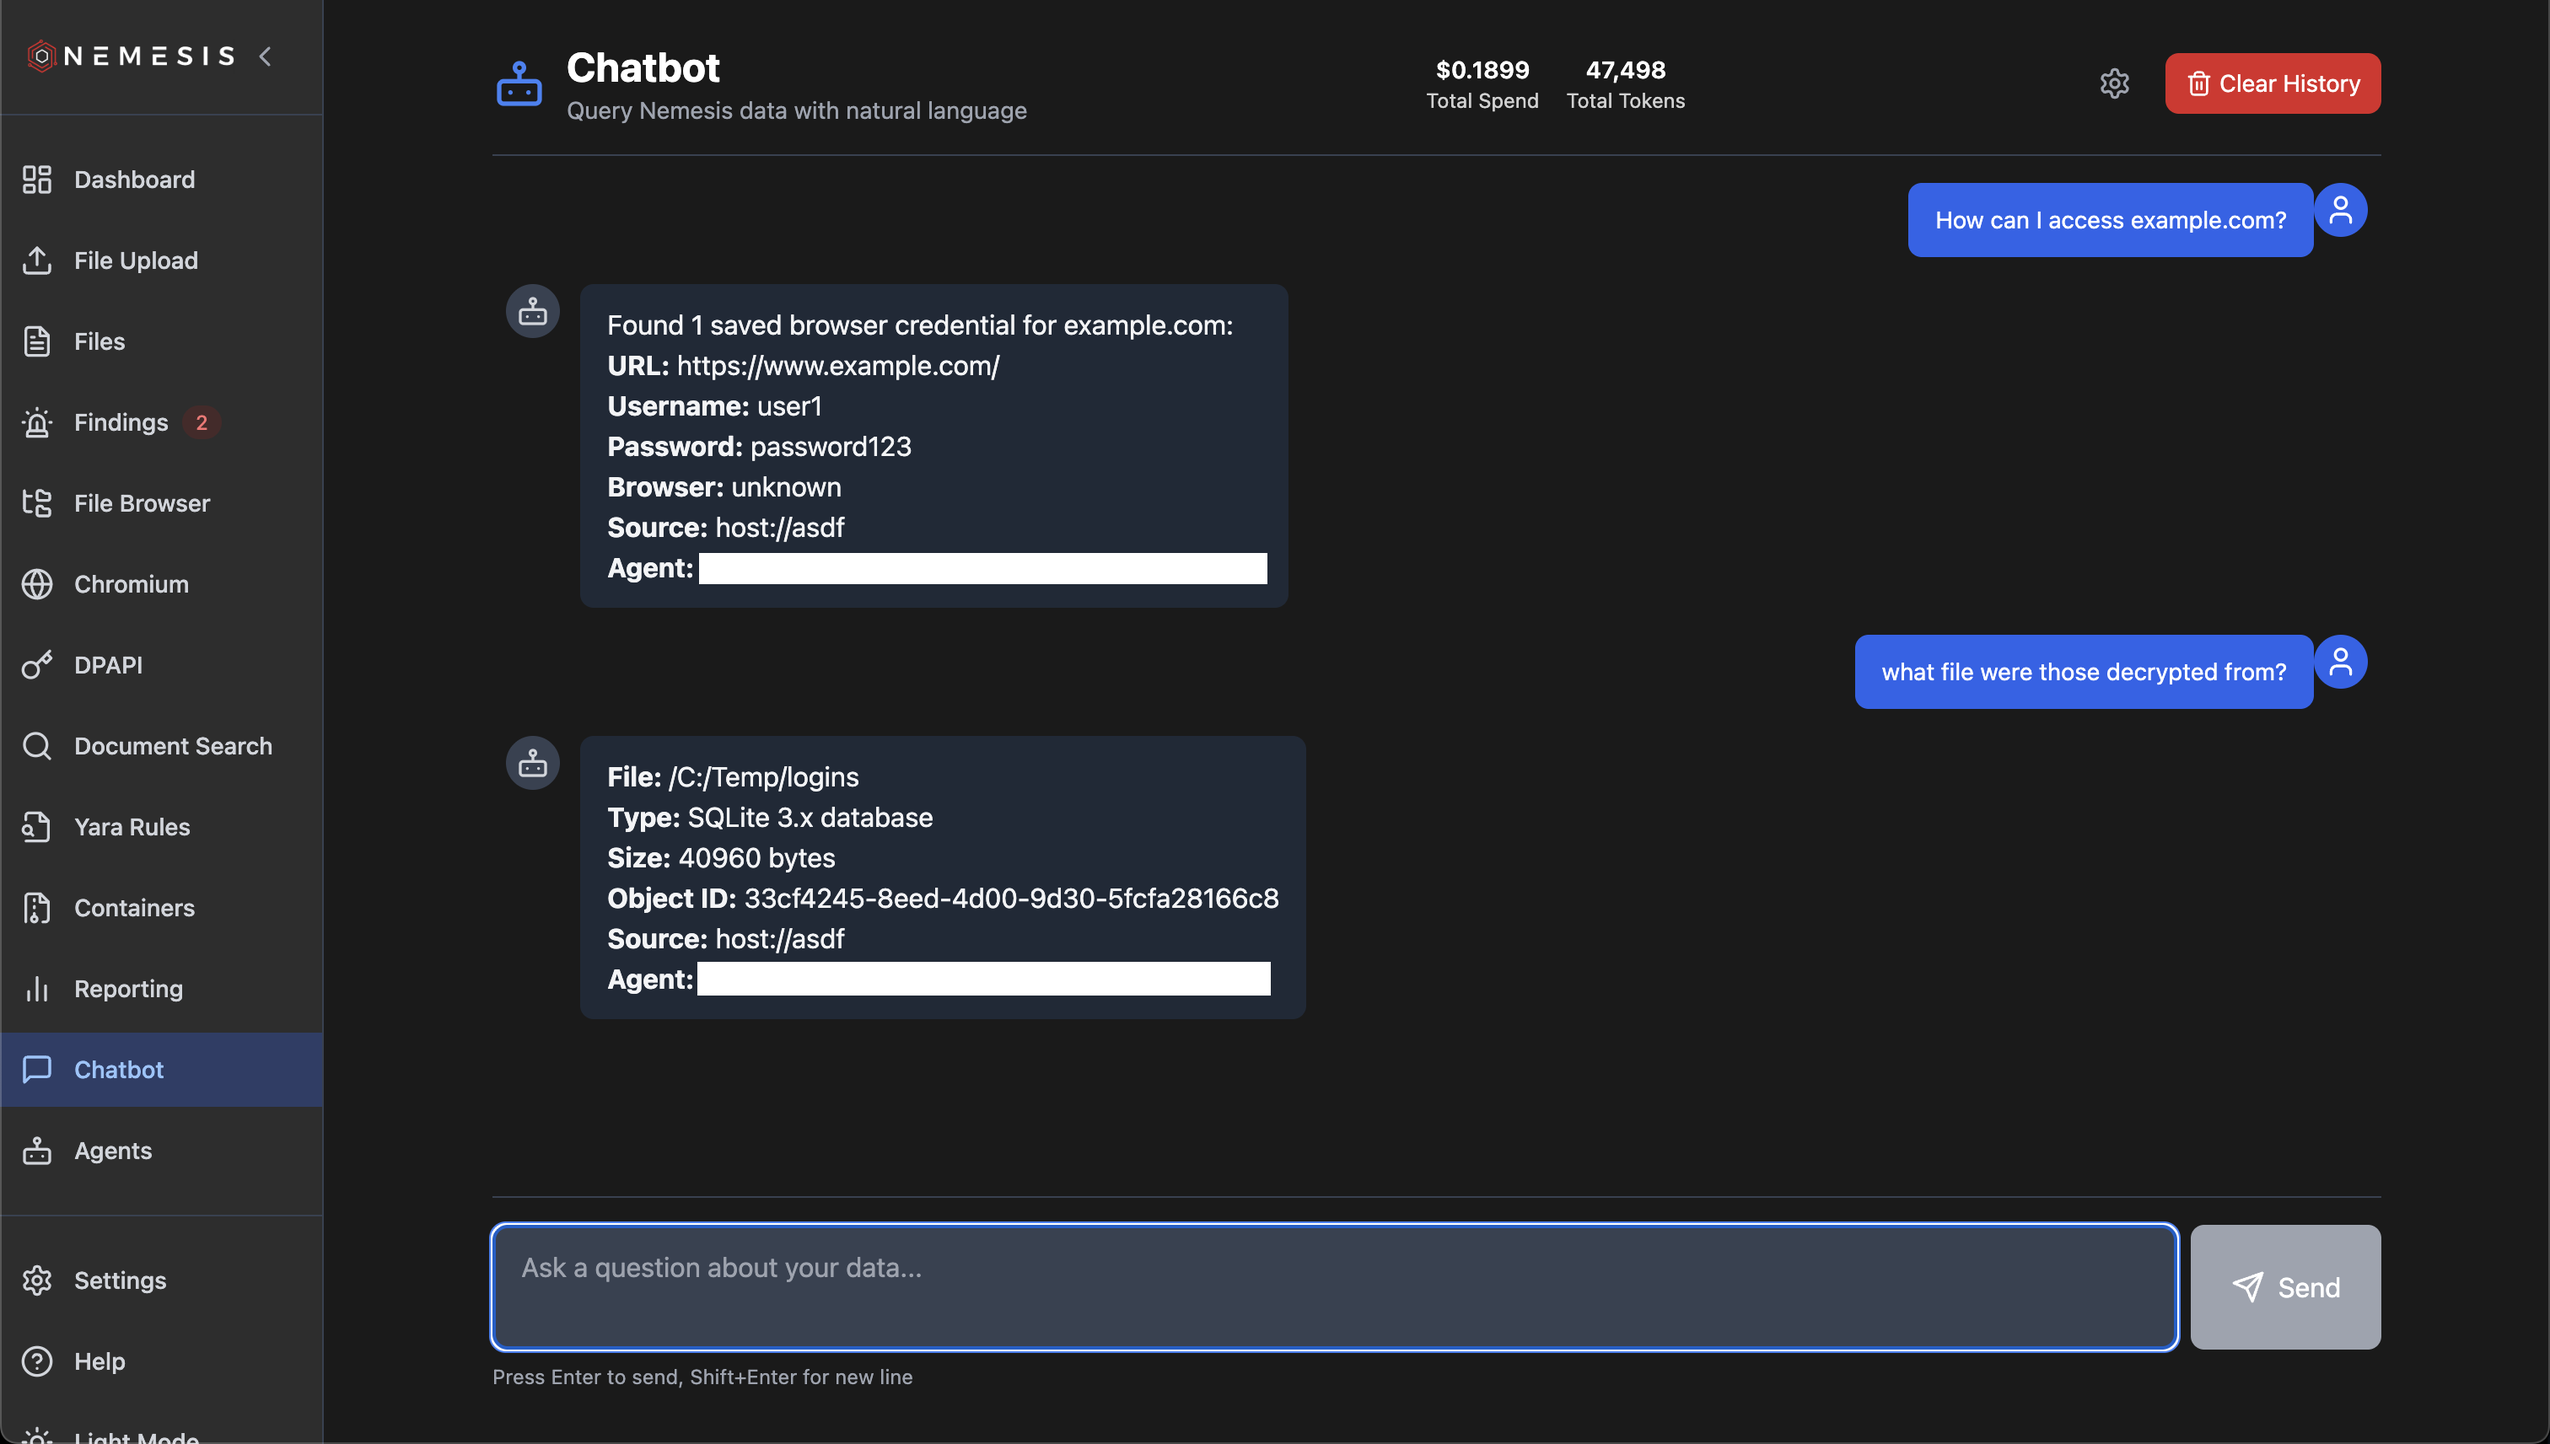
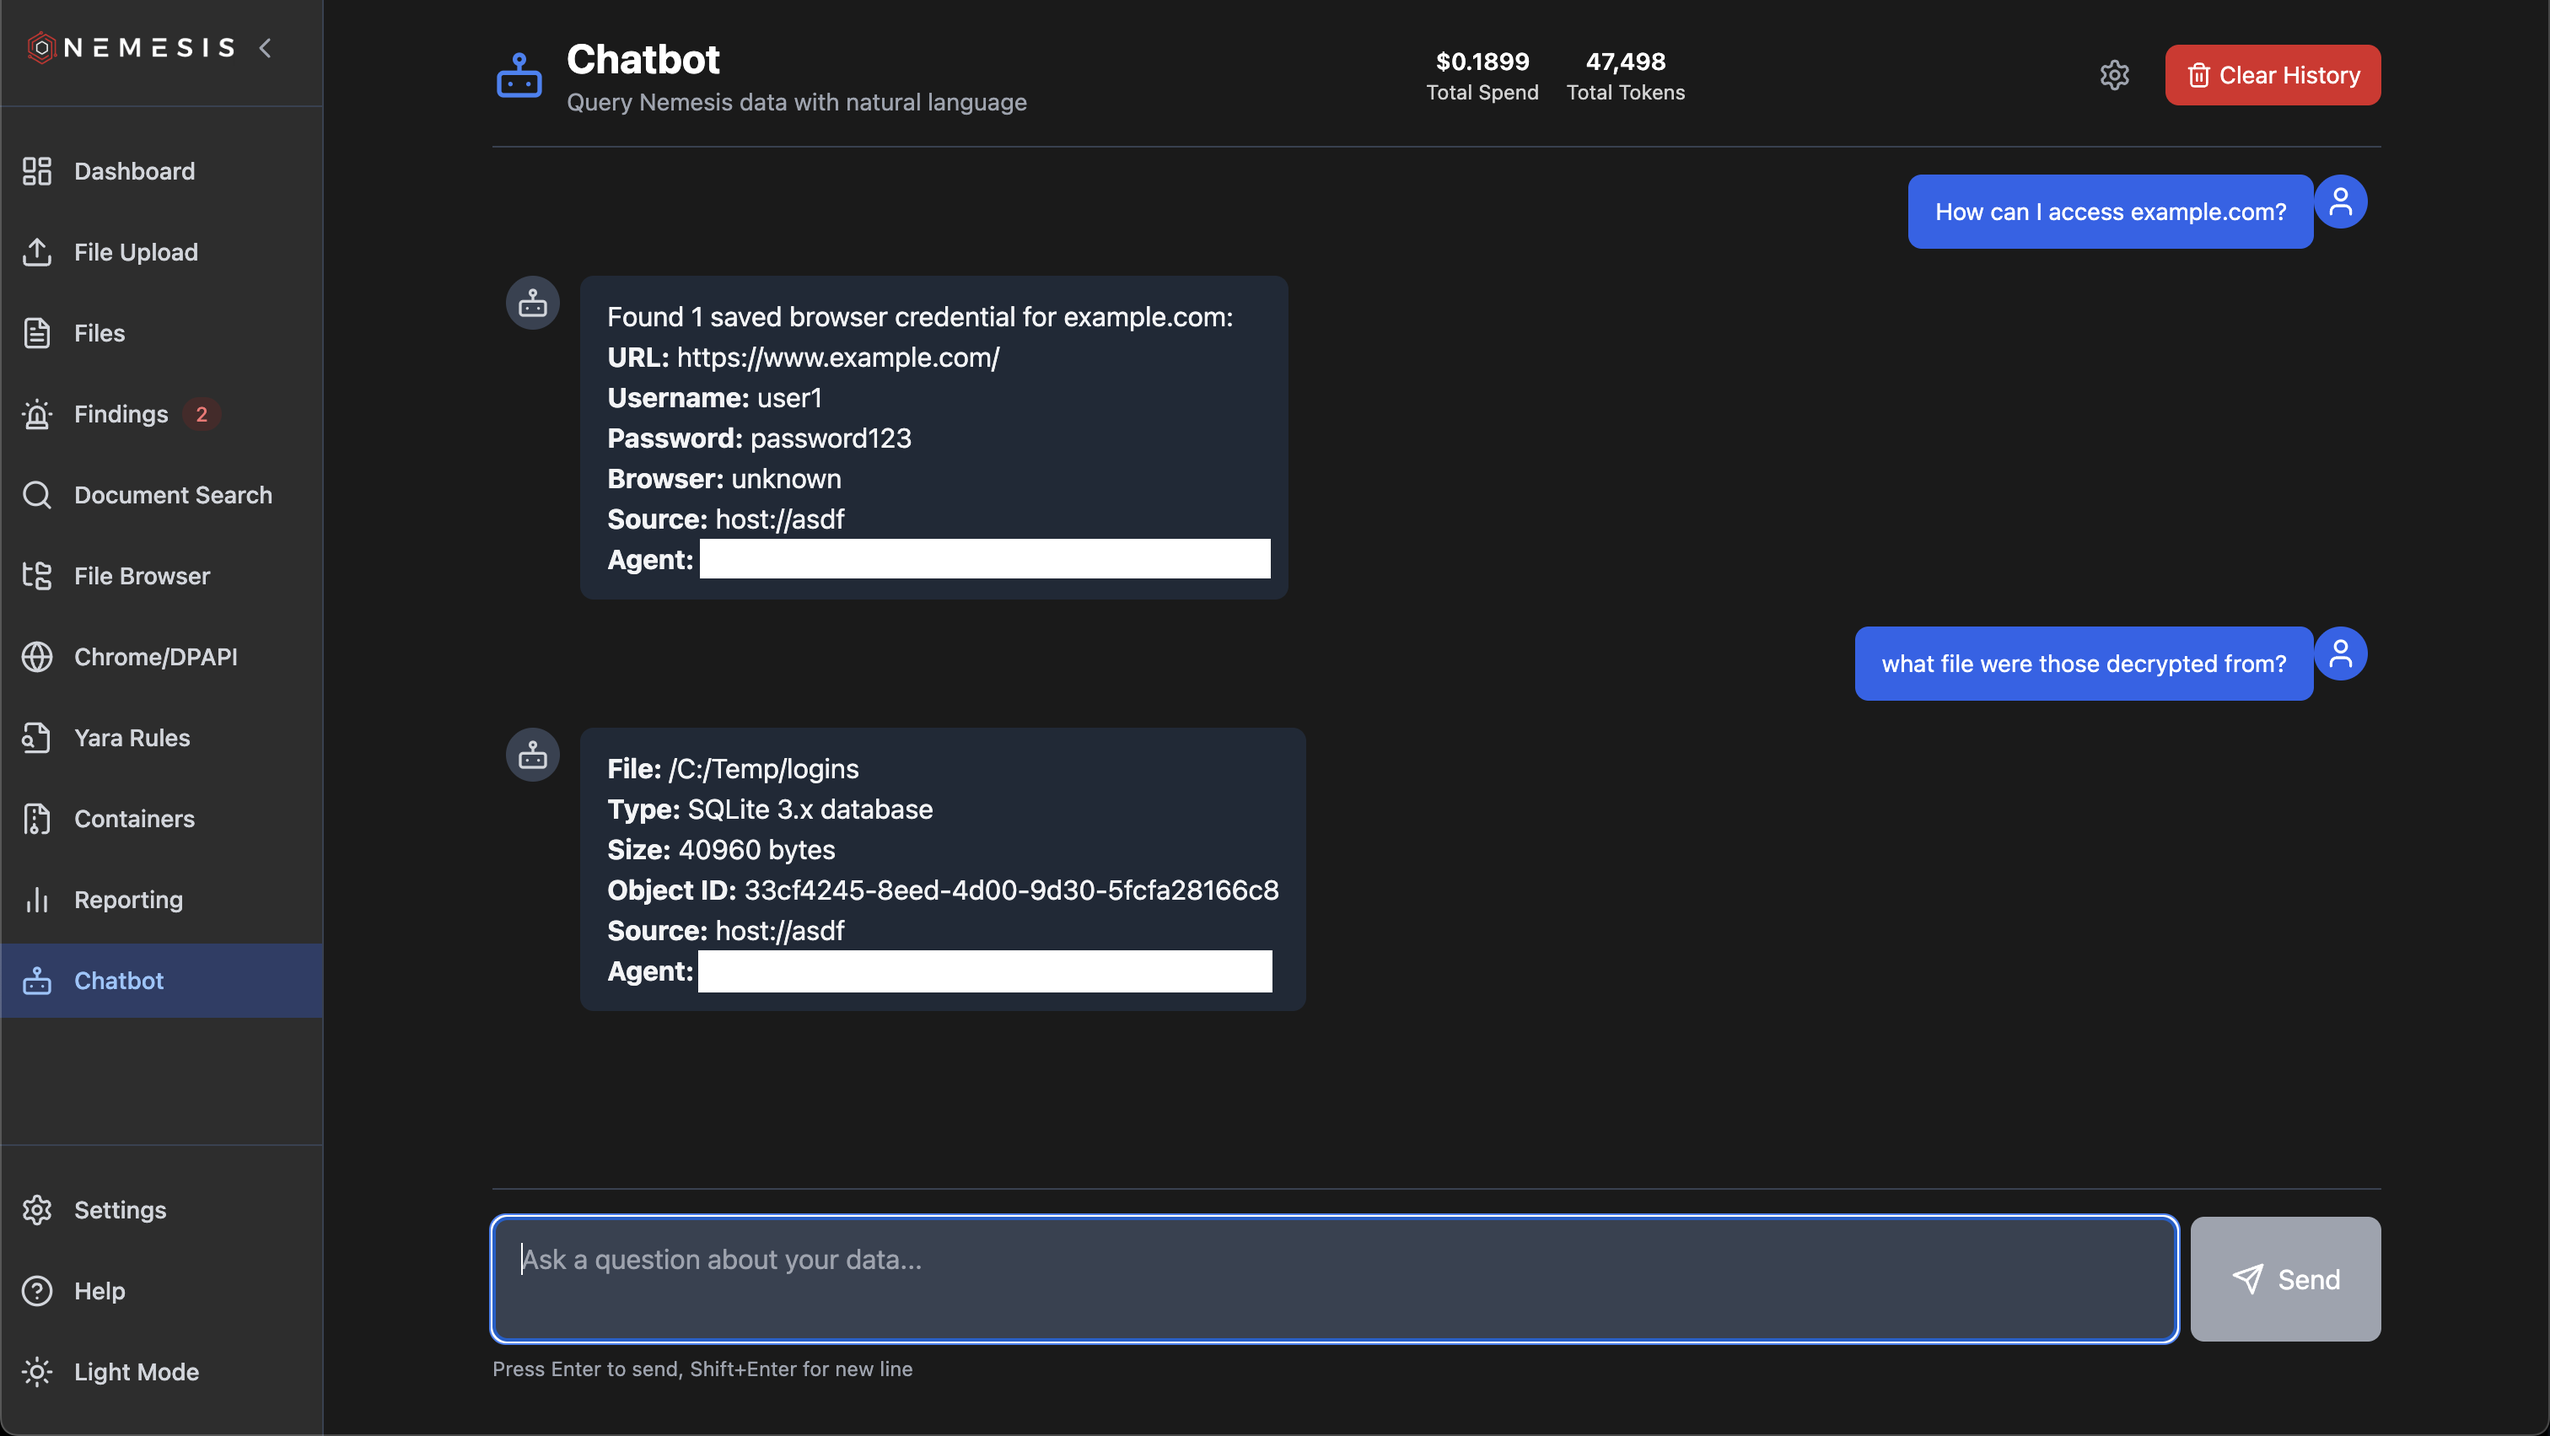
Update docs
- Update docs

diff --git a/docs/agents.md b/docs/agents.md
@@ -22,6 +22,16 @@ In order to enable any LLM-powered agents, you first need to configure one or mo
 
 ***Note:*** service keys/tokens/etc. should be configured in your .env file and can be used in `./infra/litellm/config.yaml` as demonstrated in the current config file.
 
+## Agent Settings
+
+Agent settings/prompts can be viewed and modified in the `Settings` tab on the left, in the "Agents Configuration" section. This includes the LLM usage statistics for all LLM usage across Nemesis:
+
+[Nemesis Agents Configuration](./images/nemesis_agents_configuration.png)
+
+You can modify agent system prompts by clicking "Edit", making your changes to the prompt, and clicking "Save":
+
+![Agents Web Interface Prompts](images/nemesis_dashboard_agents_prompt.png)
+
 ## Agent Details
 
 ### Finding Validator
@@ -80,34 +90,7 @@ The Chatbot agent powers the "Chatbot" icon in the left navigation panel. This a
 
 ![Nemesis Chatbot](images/nemesis_chatbot.png)
 
-#### MCP
-
-Additionally, the MCP used by the Chatbot is exposed over the `/mcp` route in the main Nemesis interface. For demonstration purposes, a bridge is at [./tools/mcp_bridge.py](https://github.com/SpecterOps/Nemesis/blob/main/tools/mcp_bridge.py) and can be used with Claude Desktop with the following config:
-
-```json
-{
-  "mcpServers": {
-    "nemesis": {
-      "command": "python3",
-      "args": ["/Users/User/path/to/Nemesis/tools/mcp_bridge.py"]
-    }
-  }
-}
-```
-
-**Note:** modify the credentials in the [./tools/mcp_bridge.py](https://github.com/SpecterOps/Nemesis/blob/main/tools/mcp_bridge.py) file to match your credentials!
-
 ## The Nemesis Web Interface
-
-### Agents Web Interface
-
-If the llm profile is used, the Nemesis frontend will detect that LiteLLM was deployed and enable a new "Agents" tab on the left. Clicking on this tab will show you the currently enabled agents, as well as the current token and cost spend for the system:
-
-![Agents Web Interface](images/nemesis_dashboard_agents.png)
-
-For LLM-powered agents, you can modify the main system prompt used by clicking "Edit", making your changes to the prompt, and clicking "Save":
-
-![Agents Web Interface Prompts](images/nemesis_dashboard_agents_prompt.png)
 
 ### Monitoring
 

diff --git a/docs/chatbot.md b/docs/chatbot.md
@@ -1,0 +1,38 @@
+# Nemesis Chatbot
+
+The `Chatbot` icon on the left navigation bar is dynamically enabled when the `--llm` profile is used.
+
+## Usage
+
+In order to use the Chatbot, see [agents.md](./agents.md) on configuring LLM functionionality.
+
+Once enabled, the Chatbot interface allows operators to chat over Nemesis data, powered by a Postgres MCP server and [custom query functions](https://github.com/SpecterOps/Nemesis/blob/main/projects/agents/agents/mcp/tools.yaml).
+
+![Nemesis Chatbot](images/nemesis_chatbot.png)
+
+History is automatically preserved and used when conversing with the chatbot - this will increase the number of tokens (tracked at the top of the page along with cost) used but allow for multi-turn conversations. You can clear the history with the "Clear History" button - a warning will also show when the conversation passes 50k tokens:
+
+![Nemesis Chatbot Token Warning](images/nemesis_chatbot_token_warning.png)
+
+## Settings
+
+The Settings gear icon at the top of the page allows you to modify the temperature, system prompt, and/or whether to use the conversation history:
+
+![Nemesis Chatbot Settings](images/nemesis_chatbot_settings.png)
+
+## MCP
+
+Additionally, the MCP used by the Chatbot is exposed over the `/mcp` route in the main Nemesis interface. For demonstration purposes, a bridge is at [./tools/mcp_bridge.py](https://github.com/SpecterOps/Nemesis/blob/main/tools/mcp_bridge.py) and can be used with Claude Desktop with the following config:
+
+```json
+{
+  "mcpServers": {
+    "nemesis": {
+      "command": "python3",
+      "args": ["/Users/User/path/to/Nemesis/tools/mcp_bridge.py"]
+    }
+  }
+}
+```
+
+**Note:** modify the credentials in the [./tools/mcp_bridge.py](https://github.com/SpecterOps/Nemesis/blob/main/tools/mcp_bridge.py) file to match your credentials!

diff --git a/docs/dpapi.md b/docs/dpapi.md
@@ -20,7 +20,7 @@ Nemesis currently analyzes and manages the following DPAPI data sources:
 
 ### DPAPI Data Viewer
 
-The Nemesis frontend provides a dedicated DPAPI interface accessible through the main navigation. This interface organizes all DPAPI-related functionality into three main categories:
+The Nemesis frontend provides a dedicated DPAPI interface accessible through the `Chrome/DPAPI` navigation button on the left. This interface organizes all DPAPI-related functionality into three main categories:
 
 ### Master Keys Tab
 

diff --git a/docs/chromium.md b/docs/chromium.md
@@ -19,7 +19,7 @@ Nemesis currently analyzes the following Chromium data sources:
 
 ### Chromium Data Viewer
 
-The Nemesis frontend provides a dedicated Chromium interface accessible through the main navigation. This interface organizes all extracted Chromium data into five main categories:
+The Nemesis frontend provides a dedicated Chromium interface accessible through the `Chrome/DPAPI` navigation button on the left. This interface organizes all extracted Chromium data into five main categories:
 
 ### History Tab
 
